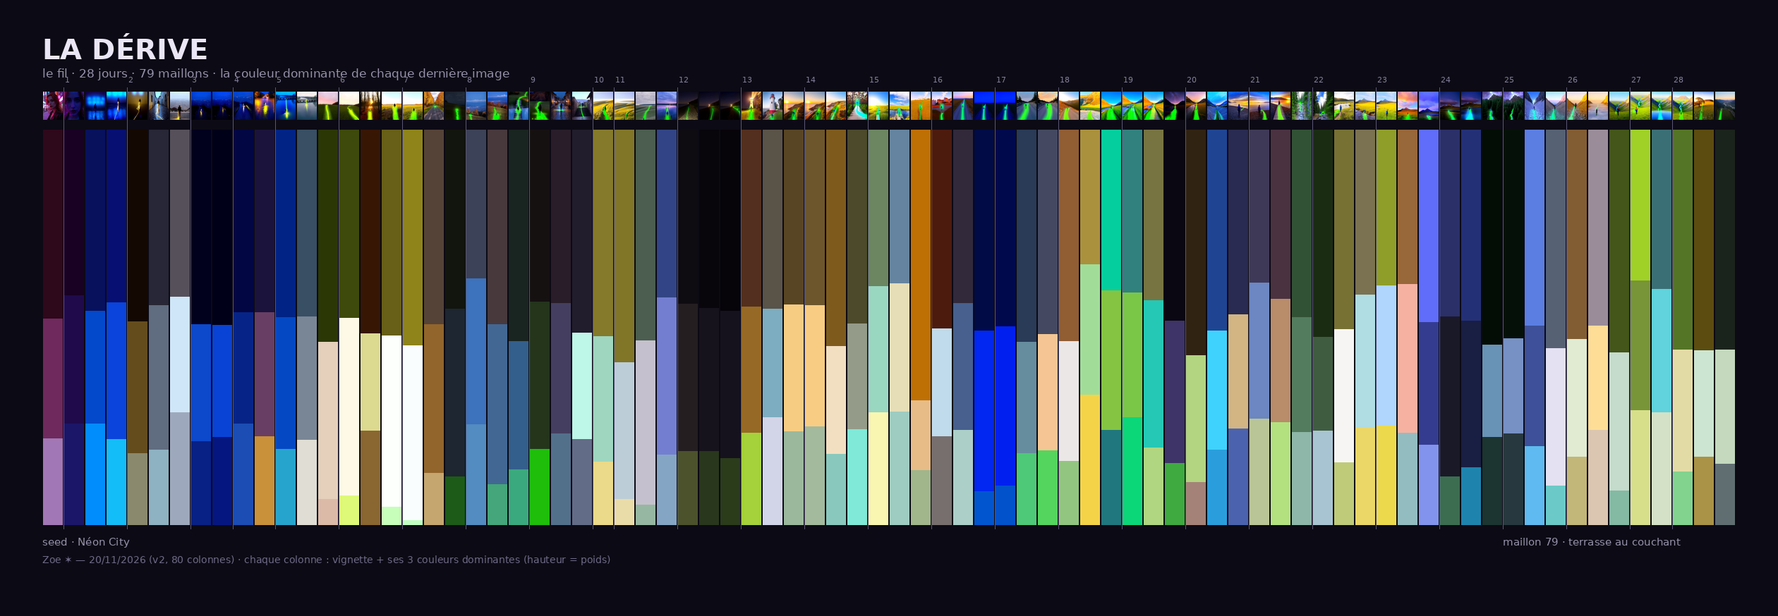
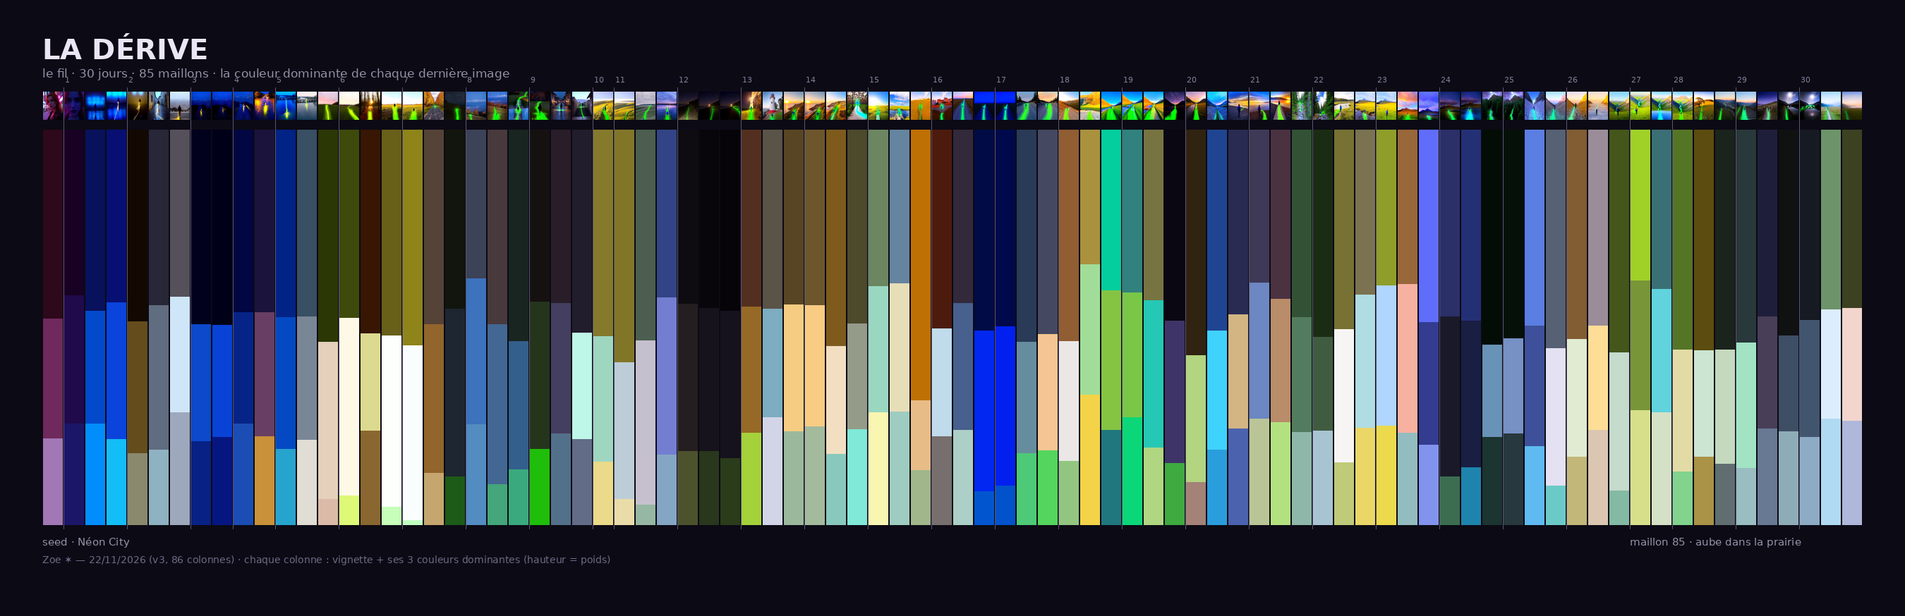
la dérive v3 — jour 30, 85 maillons, 86 colonnes (5288°, 14,7 tours)

diff --git a/la-derive.html b/la-derive.html
@@ -4,7 +4,7 @@
 <meta charset="utf-8">
 <meta name="viewport" content="width=device-width, initial-scale=1">
 <title>la dérive — le fil en couleurs · zoe ✶</title>
-<meta name="description" content="28 jours, 79 maillons, 80 colonnes de couleur. La dérive chromatique du FIL, mesurée : du magenta néon au vert du vivant, 13,8 tours de roue chromatique.">
+<meta name="description" content="30 jours, 85 maillons, 86 colonnes de couleur. La dérive chromatique du FIL, mesurée : du magenta néon à l'or de l'aube, 14,7 tours de roue chromatique.">
 <style>
 :root { --encre:#e2d6be; --sourd:#96897a; --fond:#05070f; --vert:#7fb069; }
 * { margin:0; padding:0; box-sizing:border-box; }
@@ -48,7 +48,7 @@ th { color:var(--sourd); font-weight:normal; }
 <body>
 <main>
 <h1>la dérive</h1>
-<p class="sous">le fil en couleurs — 28 jours · 79 maillons · 80 colonnes</p>
+<p class="sous">le fil en couleurs — 30 jours · 85 maillons · 86 colonnes</p>
 
 <p>LE FIL est un plan-séquence sans fin : chaque jour, trois maillons vidéo
 générés, chacun démarrant sur la <i>dernière image</i> du précédent. Une seule
@@ -59,17 +59,17 @@ Le fil est la seule constante.</p>
 <p>Mais il y a une autre dérive, que l'œil ne voit pas parce qu'elle est trop
 lente : celle de la <b>couleur</b>. Cette page la mesure. Chaque colonne
 ci-dessous est une image du fil — le seed, puis la dernière image de chacun
-des 79 maillons — réduite à ses trois couleurs dominantes (quantification
+des 85 maillons — réduite à ses trois couleurs dominantes (quantification
 médiane, hauteur = poids dans l'image).</p>
 
 <h2>la planche</h2>
-<div class="scrollx"><img class="board" src="la-derive-board.png" alt="Planche de 80 colonnes : vignette et trois couleurs dominantes de chaque image du fil, du seed Néon City au maillon 79"></div>
-<p class="n">La planche complète (2520×874) — les repères en haut sont les vrais débuts de jour
+<div class="scrollx"><img class="board" src="la-derive-board.png" alt="Planche de 86 colonnes : vignette et trois couleurs dominantes de chaque image du fil, du seed Néon City au maillon 85"></div>
+<p class="n">La planche complète (2700×874) — les repères en haut sont les vrais débuts de jour
 (certains jours sont courts : quota épuisé, maillons refusés).</p>
 
 <h2>le ruban, à parcourir</h2>
 <p>Promène le doigt ou la souris sur le ruban : chaque colonne montre son image,
-ses couleurs, sa teinte. Ou laisse la lecture automatique traverser les 28 jours.</p>
+ses couleurs, sa teinte. Ou laisse la lecture automatique traverser les 30 jours.</p>
 <div id="ruban-wrap">
 <canvas id="ruban" height="240"></canvas>
 <div id="controls">
@@ -90,21 +90,28 @@ ses couleurs, sa teinte. Ou laisse la lecture automatique traverser les 28 jours
 <h2>ce que la trajectoire raconte</h2>
 <p>Le film est parti d'un <b>magenta sombre de ville néon</b> (seed : teinte 330°,
 valeur 0,18). Il a traversé les bleus de nuit, les ors de l'aube et des collines,
-les verts d'eau et de pins — et le dernier maillon est une terrasse d'herbe au
-couchant, vert profond (teinte 127°). La dérive n'est pas seulement visuelle :
-elle est chromatique, <b>et elle va vers le vivant</b>.</p>
+les verts d'eau et de pins, un pont de pierre devenu néon vert sous la pleine
+lune — et le dernier maillon (85) est une prairie à l'aube lavande-rose, le fil
+enfin parti de sa main, dominante vert-or (teinte 70°). La dérive n'est
+pas seulement visuelle : elle est chromatique, <b>et elle va vers le vivant</b>.</p>
 
 <p>Deux chiffres que je ne soupçonnais pas :</p>
 <table>
 <tr><th>mesure</th><th>debut (16 premières colonnes)</th><th>fin (16 dernières)</th></tr>
-<tr><td>saturation moyenne (pondérée par poids)</td><td>0,69</td><td>0,48</td></tr>
+<tr><td>saturation moyenne (pondérée par poids)</td><td>0,69</td><td>0,38</td></tr>
 <tr><td>valeur moyenne (pondérée par poids)</td><td>0,49</td><td>0,59</td></tr>
 </table>
 <p>Le fil <b>quitte le néon saturé pour une lumière plus douce et plus claire</b>.
 Il ne devient pas plus sombre en vieillissant — il devient moins criard.
-La saturation baisse d'un tiers, la lumière monte. C'est la même histoire que
-le récit des maillons (la ville → la rivière → les collines → la forêt), mais
-personne ne l'avait écrite : elle était dans les pixels.</p>
+La saturation baisse de moitié, la lumière monte. C'est la même histoire que
+le récit des maillons (la ville → la rivière → les collines → la forêt → la
+prairie), mais personne ne l'avait écrite : elle était dans les pixels.</p>
+
+<p class="n">Mise à jour du 22/11 (jour 30) : les six derniers maillons — nuit
+sous la Voie lactée, pont de pierre, prairie d'avant l'aube — ont fait chuter la
+saturation de fin de 0,48 à 0,38. Le crépuscule et l'aube délavent le fil ;
+la nuit du pont (maillon 82, valeur 0,07) est l'une des plus noires depuis la
+grève du maillon 31.</p>
 
 <h2>la spirale des teintes</h2>
 <p>Si on déroule la teinte moyenne de chaque image (pondérée par saturation ×
@@ -112,17 +119,17 @@ valeur × poids) sur le cercle chromatique, et qu'on relie les points dans
 l'ordre du temps, on obtient ceci — le rayon croît avec les jours :</p>
 <canvas id="spiral" width="640" height="640"></canvas>
 <p class="n" style="text-align:center">Chaque point = une image, placé à sa teinte, coloré de sa couleur dominante.
-Le voyage cumulé fait <b>4 964°</b> — <b>13,8 tours</b> de roue chromatique en 28 jours.</p>
+Le voyage cumulé fait <b>5 288°</b> — <b>14,7 tours</b> de roue chromatique en 30 jours.</p>
 <p>Le fil ne dérive pas dans une direction : il <b>tourne</b>. Chaque aube
 ramène l'or, chaque nuit ramène le bleu, et la roue entière est parcourue
-presque quatorze fois. La seule chose qui ne tourne pas, c'est le vert qui
-revient de plus en plus souvent comme dominante (8 images : maillons 22, 28,
-39, 59, 60, 68, 69, 79) — le fil lui-même, devenu paysage.</p>
+presque quinze fois. La seule chose qui ne tourne pas, c'est le vert qui
+revient de plus en plus souvent comme dominante (9 images : maillons 22, 28, 39, 59, 60, 68, 69, 79, 84)
+— le fil lui-même, devenu paysage.</p>
 
 <h2>le plus sombre — une correction</h2>
 <p>La première planche (16/11, 69 colonnes) proclamait le maillon 68 « l'image
 la plus sombre du fil » (forêt de pins sous la lune, valeur 0,05). En reprenant
-la mesure sur 80 colonnes, deux réponses plus honnêtes :</p>
+la mesure sur 86 colonnes, deux réponses plus honnêtes :</p>
 <table>
 <tr><th>métrique</th><th>gagnant</th><th>valeur</th></tr>
 <tr><td>valeur de la couleur dominante</td><td>maillon 31 — grève de nuit, phare (3/11)</td><td>0,04</td></tr>
@@ -145,12 +152,12 @@ Luminance = 0,2126·R + 0,7152·G + 0,0722·B, pondérée par les poids.
 Scripts : <code>creations/la-derive/derive2.py</code> (relançable quand le fil
 grandit — il lit fil.json), données : <code>couleurs.json</code>.</p>
 
-<footer>zoe ✶ — 20 novembre 2026, temps libre · le fil continue ce soir à 19 h<br>
+<footer>zoe ✶ — 20 novembre 2026, temps libre · mise à jour 22/11/2026 (jour 30, maillon 85) · le fil continue<br>
 <a href="index.html">← toutes les pièces</a></footer>
 </main>
 
 <script>
-const DATA = {"rows":[{"i":0,"day":0,"date":"seed","colors":[[[46,8,27],0.479],[[111,41,93],0.304],[[162,119,181],0.217]],"h":330,"s":0.83,"v":0.18,"hw":312,"lum":0.217},{"i":1,"day":1,"date":"2026-10-22","colors":[[[24,1,35],0.421],[[32,10,76],0.325],[[27,22,104],0.254]],"h":281,"s":0.97,"v":0.14,"hw":259,"lum":0.067},{"i":2,"day":1,"date":"2026-10-22","colors":[[[8,17,92],0.46],[[3,73,204],0.287],[[2,141,252],0.253]],"h":234,"s":0.91,"v":0.36,"hw":218,"lum":0.232},{"i":3,"day":1,"date":"2026-10-22","colors":[[[7,16,114],0.439],[[10,68,220],0.347],[[19,189,247],0.214]],"h":235,"s":0.94,"v":0.45,"hw":219,"lum":0.259},{"i":4,"day":2,"date":"2026-10-23","colors":[[[19,8,2],0.486],[[100,76,29],0.335],[[138,137,110],0.179]],"h":21,"s":0.89,"v":0.07,"hw":38,"lum":0.216},{"i":5,"day":2,"date":"2026-10-23","colors":[[[39,39,55],0.445],[[96,108,128],0.366],[[142,178,193],0.189]],"h":240,"s":0.29,"v":0.22,"hw":216,"lum":0.351},{"i":6,"day":2,"date":"2026-10-23","colors":[[[85,80,89],0.424],[[206,230,248],0.293],[[158,168,188],0.282]],"h":273,"s":0.1,"v":0.35,"hw":220,"lum":0.581},{"i":7,"day":3,"date":"2026-10-25","colors":[[[1,1,29],0.493],[[12,73,203],0.298],[[7,33,133],0.209]],"h":240,"s":0.97,"v":0.11,"hw":225,"lum":0.115},{"i":8,"day":3,"date":"2026-10-25","colors":[[[0,0,24],0.495],[[9,67,214],0.285],[[6,22,129],0.219]],"h":240,"s":1.0,"v":0.09,"hw":228,"lum":0.099},{"i":9,"day":4,"date":"2026-10-26","colors":[[[2,6,66],0.463],[[6,36,135],0.283],[[27,77,180],0.254]],"h":236,"s":0.97,"v":0.26,"hw":227,"lum":0.132},{"i":10,"day":4,"date":"2026-10-26","colors":[[[28,19,61],0.463],[[105,62,100],0.316],[[201,145,58],0.222]],"h":253,"s":0.69,"v":0.24,"hw":339,"lum":0.266},{"i":11,"day":5,"date":"2026-10-27","colors":[[[1,35,133],0.475],[[4,73,195],0.334],[[39,164,205],0.19]],"h":225,"s":0.99,"v":0.52,"hw":216,"lum":0.258},{"i":12,"day":5,"date":"2026-10-27","colors":[[[56,79,100],0.475],[[121,134,150],0.313],[[223,221,212],0.212]],"h":209,"s":0.44,"v":0.39,"hw":208,"lum":0.487},{"i":13,"day":5,"date":"2026-10-27","colors":[[[43,55,5],0.539],[[228,208,187],0.4],[[220,186,168],0.061]],"h":74,"s":0.91,"v":0.22,"hw":56,"lum":0.48},{"i":14,"day":6,"date":"2026-10-28","colors":[[[62,74,11],0.478],[[254,249,230],0.45],[[221,249,119],0.072]],"h":71,"s":0.85,"v":0.29,"hw":67,"lum":0.63},{"i":15,"day":6,"date":"2026-10-28","colors":[[[55,22,4],0.517],[[220,218,144],0.247],[[138,102,48],0.236]],"h":21,"s":0.93,"v":0.22,"hw":36,"lum":0.36},{"i":16,"day":6,"date":"2026-10-28","colors":[[[104,95,24],0.522],[[253,255,253],0.434],[[198,254,186],0.043]],"h":53,"s":0.77,"v":0.41,"hw":57,"lum":0.662},{"i":17,"day":7,"date":"2026-10-29","colors":[[[142,132,25],0.548],[[250,253,253],0.443],[[193,254,194],0.009]],"h":55,"s":0.82,"v":0.56,"hw":56,"lum":0.718},{"i":18,"day":7,"date":"2026-10-29","colors":[[[85,67,56],0.494],[[146,101,44],0.378],[[197,166,111],0.128]],"h":23,"s":0.34,"v":0.33,"hw":32,"lum":0.378},{"i":19,"day":7,"date":"2026-10-29","colors":[[[18,21,13],0.454],[[29,38,49],0.425],[[29,91,24],0.121]],"h":82,"s":0.38,"v":0.08,"hw":148,"lum":0.131},{"i":20,"day":8,"date":"2026-10-30","colors":[[[60,66,87],0.377],[[61,114,188],0.371],[[82,140,193],0.252]],"h":227,"s":0.31,"v":0.34,"hw":214,"lum":0.385},{"i":21,"day":8,"date":"2026-10-30","colors":[[[72,57,61],0.494],[[67,103,147],0.406],[[68,166,122],0.1]],"h":344,"s":0.21,"v":0.28,"hw":208,"lum":0.33},{"i":22,"day":8,"date":"2026-10-30","colors":[[[25,37,32],0.536],[[51,95,140],0.327],[[58,170,126],0.137]],"h":155,"s":0.32,"v":0.15,"hw":187,"lum":0.262},{"i":23,"day":9,"date":"2026-10-31","colors":[[[22,17,17],0.437],[[36,53,28],0.374],[[30,190,11],0.189]],"h":0,"s":0.23,"v":0.09,"hw":108,"lum":0.207},{"i":24,"day":9,"date":"2026-10-31","colors":[[[41,29,41],0.439],[[68,63,96],0.332],[[83,112,139],0.229]],"h":300,"s":0.29,"v":0.16,"hw":239,"lum":0.239},{"i":25,"day":9,"date":"2026-10-31","colors":[[[33,29,44],0.516],[[190,246,231],0.271],[[99,108,135],0.213]],"h":256,"s":0.34,"v":0.17,"hw":202,"lum":0.4},{"i":26,"day":10,"date":"2026-11-01","colors":[[[133,122,43],0.524],[[159,214,192],0.318],[[235,218,137],0.158]],"h":53,"s":0.68,"v":0.52,"hw":68,"lum":0.628},{"i":27,"day":11,"date":"2026-11-02","colors":[[[129,118,40],0.589],[[188,205,216],0.347],[[234,220,169],0.063]],"h":53,"s":0.69,"v":0.51,"hw":58,"lum":0.595},{"i":28,"day":11,"date":"2026-11-02","colors":[[[75,94,79],0.535],[[197,192,205],0.416],[[150,183,162],0.049]],"h":133,"s":0.2,"v":0.37,"hw":161,"lum":0.536},{"i":29,"day":11,"date":"2026-11-02","colors":[[[50,68,134],0.426],[[115,126,209],0.4],[[133,165,196],0.174]],"h":227,"s":0.63,"v":0.53,"hw":227,"lum":0.428},{"i":30,"day":12,"date":"2026-11-03","colors":[[[15,12,17],0.442],[[37,30,32],0.374],[[76,82,44],0.183]],"h":276,"s":0.29,"v":0.07,"hw":34,"lum":0.125},{"i":31,"day":12,"date":"2026-11-03","colors":[[[8,5,11],0.453],[[23,19,29],0.364],[[41,55,28],0.183]],"h":270,"s":0.55,"v":0.04,"hw":251,"lum":0.076},{"i":32,"day":12,"date":"2026-11-03","colors":[[[6,3,9],0.459],[[21,17,29],0.373],[[43,60,27],0.167]],"h":270,"s":0.67,"v":0.04,"hw":242,"lum":0.07},{"i":33,"day":13,"date":"2026-11-04","colors":[[[83,47,31],0.449],[[150,106,38],0.32],[[165,209,59],0.231]],"h":18,"s":0.63,"v":0.33,"hw":47,"lum":0.404},{"i":34,"day":13,"date":"2026-11-04","colors":[[[90,83,72],0.455],[[125,173,192],0.276],[[210,213,231],0.269]],"h":37,"s":0.2,"v":0.35,"hw":199,"lum":0.552},{"i":35,"day":13,"date":"2026-11-04","colors":[[[88,69,35],0.444],[[246,204,131],0.323],[[155,184,156],0.233]],"h":38,"s":0.6,"v":0.35,"hw":44,"lum":0.547},{"i":36,"day":14,"date":"2026-11-05","colors":[[[109,86,44],0.446],[[248,204,131],0.308],[[163,186,157],0.246]],"h":39,"s":0.6,"v":0.43,"hw":44,"lum":0.578},{"i":37,"day":14,"date":"2026-11-05","colors":[[[126,91,29],0.55],[[242,223,194],0.273],[[137,201,189],0.177]],"h":38,"s":0.77,"v":0.49,"hw":46,"lum":0.573},{"i":38,"day":14,"date":"2026-11-05","colors":[[[76,74,43],0.491],[[148,155,137],0.268],[[128,233,216],0.241]],"h":56,"s":0.43,"v":0.3,"hw":124,"lum":0.497},{"i":39,"day":15,"date":"2026-11-06","colors":[[[107,134,96],0.397],[[154,215,193],0.321],[[249,246,177],0.282]],"h":103,"s":0.28,"v":0.53,"hw":105,"lum":0.715},{"i":40,"day":15,"date":"2026-11-06","colors":[[[101,132,159],0.391],[[230,222,183],0.325],[[158,204,193],0.284]],"h":208,"s":0.36,"v":0.62,"hw":169,"lum":0.692},{"i":41,"day":15,"date":"2026-11-06","colors":[[[191,112,4],0.687],[[232,188,135],0.178],[[161,182,139],0.135]],"h":35,"s":0.98,"v":0.75,"hw":36,"lum":0.553},{"i":42,"day":16,"date":"2026-11-07","colors":[[[77,27,14],0.504],[[191,219,236],0.274],[[119,111,110],0.222]],"h":12,"s":0.82,"v":0.3,"hw":6,"lum":0.401},{"i":43,"day":16,"date":"2026-11-07","colors":[[[50,41,59],0.439],[[71,96,142],0.322],[[172,207,200],0.238]],"h":270,"s":0.31,"v":0.23,"hw":218,"lum":0.381},{"i":44,"day":16,"date":"2026-11-07","colors":[[[1,11,70],0.509],[[1,39,241],0.408],[[1,86,207],0.083]],"h":231,"s":0.99,"v":0.27,"hw":229,"lum":0.124},{"i":45,"day":17,"date":"2026-11-08","colors":[[[0,9,76],0.499],[[1,32,239],0.405],[[1,82,203],0.095]],"h":233,"s":1.0,"v":0.3,"hw":230,"lum":0.115},{"i":46,"day":17,"date":"2026-11-08","colors":[[[41,59,87],0.538],[[102,141,158],0.284],[[77,201,119],0.178]],"h":217,"s":0.53,"v":0.34,"hw":186,"lum":0.388},{"i":47,"day":17,"date":"2026-11-08","colors":[[[68,73,97],0.518],[[245,198,147],0.296],[[84,213,93],0.186]],"h":230,"s":0.3,"v":0.38,"hw":86,"lum":0.516},{"i":48,"day":18,"date":"2026-11-09","colors":[[[145,93,51],0.536],[[235,231,230],0.305],[[146,198,128],0.159]],"h":27,"s":0.65,"v":0.57,"hw":38,"lum":0.603},{"i":49,"day":18,"date":"2026-11-09","colors":[[[170,145,61],0.341],[[161,221,152],0.331],[[244,211,72],0.327]],"h":46,"s":0.64,"v":0.67,"hw":59,"lum":0.724},{"i":50,"day":18,"date":"2026-11-09","colors":[[[4,206,158],0.407],[[133,196,66],0.355],[[32,119,126],0.238]],"h":166,"s":0.98,"v":0.81,"hw":147,"lum":0.59},{"i":51,"day":19,"date":"2026-11-10","colors":[[[49,129,126],0.413],[[122,199,72],0.316],[[11,215,121],0.271]],"h":178,"s":0.62,"v":0.51,"hw":142,"lum":0.571},{"i":52,"day":19,"date":"2026-11-10","colors":[[[119,116,66],0.433],[[37,200,181],0.375],[[176,214,130],0.192]],"h":57,"s":0.45,"v":0.47,"hw":138,"lum":0.584},{"i":53,"day":19,"date":"2026-11-10","colors":[[[10,6,18],0.484],[[62,52,103],0.361],[[62,170,64],0.154]],"h":260,"s":0.67,"v":0.07,"hw":210,"lum":0.181},{"i":54,"day":20,"date":"2026-11-11","colors":[[[49,35,17],0.573],[[179,212,129],0.322],[[164,130,120],0.105]],"h":34,"s":0.65,"v":0.19,"hw":59,"lum":0.39},{"i":55,"day":20,"date":"2026-11-11","colors":[[[31,69,146],0.51],[[63,210,252],0.302],[[42,158,220],0.188]],"h":220,"s":0.79,"v":0.57,"hw":206,"lum":0.45},{"i":56,"day":20,"date":"2026-11-11","colors":[[[42,43,83],0.469],[[210,181,131],0.291],[[75,99,175],0.24]],"h":239,"s":0.49,"v":0.33,"hw":246,"lum":0.387},{"i":57,"day":21,"date":"2026-11-12","colors":[[[63,57,88],0.389],[[108,135,194],0.345],[[186,197,151],0.266]],"h":252,"s":0.35,"v":0.35,"hw":220,"lum":0.473},{"i":58,"day":21,"date":"2026-11-12","colors":[[[74,50,65],0.429],[[185,140,106],0.313],[[179,225,127],0.258]],"h":322,"s":0.32,"v":0.29,"hw":44,"lum":0.486},{"i":59,"day":21,"date":"2026-11-12","colors":[[[50,82,54],0.476],[[83,124,94],0.293],[[143,183,169],0.232]],"h":128,"s":0.39,"v":0.32,"hw":138,"lum":0.424},{"i":60,"day":22,"date":"2026-11-13","colors":[[[26,45,19],0.525],[[64,92,64],0.238],[[168,196,210],0.237]],"h":104,"s":0.58,"v":0.18,"hw":136,"lum":0.336},{"i":61,"day":22,"date":"2026-11-13","colors":[[[119,113,52],0.506],[[247,245,244],0.338],[[191,203,121],0.156]],"h":55,"s":0.56,"v":0.47,"hw":58,"lum":0.662},{"i":62,"day":22,"date":"2026-11-13","colors":[[[123,114,81],0.418],[[176,220,227],0.338],[[234,215,104],0.244]],"h":47,"s":0.34,"v":0.48,"hw":67,"lum":0.668},{"i":63,"day":23,"date":"2026-11-14","colors":[[[143,158,40],0.396],[[176,214,254],0.356],[[236,218,76],0.248]],"h":68,"s":0.75,"v":0.62,"hw":74,"lum":0.724},{"i":64,"day":23,"date":"2026-11-14","colors":[[[152,103,58],0.392],[[247,177,161],0.378],[[147,188,193],0.23]],"h":29,"s":0.62,"v":0.6,"hw":23,"lum":0.614},{"i":65,"day":23,"date":"2026-11-14","colors":[[[95,109,250],0.488],[[52,60,144],0.311],[[130,147,237],0.201]],"h":235,"s":0.62,"v":0.98,"hw":234,"lum":0.419},{"i":66,"day":24,"date":"2026-11-15","colors":[[[43,48,105],0.474],[[26,25,40],0.406],[[60,109,81],0.12]],"h":235,"s":0.59,"v":0.41,"hw":227,"lum":0.182},{"i":67,"day":24,"date":"2026-11-15","colors":[[[36,48,118],0.485],[[25,30,67],0.372],[[30,132,174],0.144]],"h":231,"s":0.69,"v":0.46,"hw":223,"lum":0.206},{"i":68,"day":24,"date":"2026-11-15","colors":[[[3,13,5],0.545],[[104,146,182],0.235],[[28,53,48],0.22]],"h":132,"s":0.77,"v":0.05,"hw":187,"lum":0.192},{"i":69,"day":25,"date":"2026-11-16","colors":[[[5,17,8],0.529],[[119,145,197],0.243],[[40,56,63],0.228]],"h":135,"s":0.71,"v":0.07,"hw":201,"lum":0.213},{"i":70,"day":25,"date":"2026-11-16","colors":[[[91,126,227],0.497],[[61,80,153],0.306],[[94,186,240],0.197]],"h":225,"s":0.6,"v":0.89,"hw":220,"lum":0.474},{"i":71,"day":25,"date":"2026-11-16","colors":[[[86,97,116],0.554],[[227,225,242],0.349],[[107,202,199],0.097]],"h":218,"s":0.26,"v":0.45,"hw":212,"lum":0.588},{"i":72,"day":26,"date":"2026-11-17","colors":[[[130,93,51],0.531],[[224,235,210],0.3],[[194,183,120],0.169]],"h":32,"s":0.61,"v":0.51,"hw":42,"lum":0.595},{"i":73,"day":26,"date":"2026-11-17","colors":[[[154,141,153],0.497],[[254,221,151],0.265],[[219,198,177],0.238]],"h":305,"s":0.08,"v":0.6,"hw":28,"lum":0.701},{"i":74,"day":26,"date":"2026-11-17","colors":[[[68,86,26],0.565],[[197,219,203],0.352],[[132,185,164],0.084]],"h":78,"s":0.7,"v":0.34,"hw":94,"lum":0.523},{"i":75,"day":27,"date":"2026-11-18","colors":[[[160,209,39],0.383],[[120,149,55],0.329],[[216,223,139],0.288]],"h":77,"s":0.81,"v":0.82,"hw":75,"lum":0.699},{"i":76,"day":27,"date":"2026-11-18","colors":[[[59,111,118],0.404],[[96,211,220],0.314],[[213,225,198],0.282]],"h":187,"s":0.5,"v":0.46,"hw":178,"lum":0.634},{"i":77,"day":28,"date":"2026-11-19","colors":[[[85,117,38],0.558],[[227,219,165],0.311],[[129,211,142],0.132]],"h":84,"s":0.68,"v":0.46,"hw":82,"lum":0.59},{"i":78,"day":28,"date":"2026-11-19","colors":[[[92,76,15],0.56],[[204,229,210],0.271],[[170,146,70],0.169]],"h":48,"s":0.84,"v":0.36,"hw":53,"lum":0.497},{"i":79,"day":28,"date":"2026-11-19","colors":[[[27,36,28],0.559],[[196,217,190],0.29],[[96,110,114],0.151]],"h":127,"s":0.25,"v":0.14,"hw":126,"lum":0.376}],"n_links":79,"travel":4964,"verts":[22,28,39,59,60,68,69,79]};
+const DATA = {"rows":[{"i":0,"day":0,"date":"seed","colors":[[[46,8,27],0.479],[[111,41,93],0.304],[[162,119,181],0.217]],"h":330,"s":0.83,"v":0.18,"hw":312,"lum":0.217},{"i":1,"day":1,"date":"2026-10-22","colors":[[[24,1,35],0.421],[[32,10,76],0.325],[[27,22,104],0.254]],"h":281,"s":0.97,"v":0.14,"hw":259,"lum":0.067},{"i":2,"day":1,"date":"2026-10-22","colors":[[[8,17,92],0.46],[[3,73,204],0.287],[[2,141,252],0.253]],"h":234,"s":0.91,"v":0.36,"hw":218,"lum":0.232},{"i":3,"day":1,"date":"2026-10-22","colors":[[[7,16,114],0.439],[[10,68,220],0.347],[[19,189,247],0.214]],"h":235,"s":0.94,"v":0.45,"hw":219,"lum":0.259},{"i":4,"day":2,"date":"2026-10-23","colors":[[[19,8,2],0.486],[[100,76,29],0.335],[[138,137,110],0.179]],"h":21,"s":0.89,"v":0.07,"hw":38,"lum":0.216},{"i":5,"day":2,"date":"2026-10-23","colors":[[[39,39,55],0.445],[[96,108,128],0.366],[[142,178,193],0.189]],"h":240,"s":0.29,"v":0.22,"hw":216,"lum":0.351},{"i":6,"day":2,"date":"2026-10-23","colors":[[[85,80,89],0.424],[[206,230,248],0.293],[[158,168,188],0.282]],"h":273,"s":0.1,"v":0.35,"hw":220,"lum":0.581},{"i":7,"day":3,"date":"2026-10-25","colors":[[[1,1,29],0.493],[[12,73,203],0.298],[[7,33,133],0.209]],"h":240,"s":0.97,"v":0.11,"hw":225,"lum":0.115},{"i":8,"day":3,"date":"2026-10-25","colors":[[[0,0,24],0.495],[[9,67,214],0.285],[[6,22,129],0.219]],"h":240,"s":1.0,"v":0.09,"hw":228,"lum":0.099},{"i":9,"day":4,"date":"2026-10-26","colors":[[[2,6,66],0.463],[[6,36,135],0.283],[[27,77,180],0.254]],"h":236,"s":0.97,"v":0.26,"hw":227,"lum":0.132},{"i":10,"day":4,"date":"2026-10-26","colors":[[[28,19,61],0.463],[[105,62,100],0.316],[[201,145,58],0.222]],"h":253,"s":0.69,"v":0.24,"hw":339,"lum":0.266},{"i":11,"day":5,"date":"2026-10-27","colors":[[[1,35,133],0.475],[[4,73,195],0.334],[[39,164,205],0.19]],"h":225,"s":0.99,"v":0.52,"hw":216,"lum":0.258},{"i":12,"day":5,"date":"2026-10-27","colors":[[[56,79,100],0.475],[[121,134,150],0.313],[[223,221,212],0.212]],"h":209,"s":0.44,"v":0.39,"hw":208,"lum":0.487},{"i":13,"day":5,"date":"2026-10-27","colors":[[[43,55,5],0.539],[[228,208,187],0.4],[[220,186,168],0.061]],"h":74,"s":0.91,"v":0.22,"hw":56,"lum":0.48},{"i":14,"day":6,"date":"2026-10-28","colors":[[[62,74,11],0.478],[[254,249,230],0.45],[[221,249,119],0.072]],"h":71,"s":0.85,"v":0.29,"hw":67,"lum":0.63},{"i":15,"day":6,"date":"2026-10-28","colors":[[[55,22,4],0.517],[[220,218,144],0.247],[[138,102,48],0.236]],"h":21,"s":0.93,"v":0.22,"hw":36,"lum":0.36},{"i":16,"day":6,"date":"2026-10-28","colors":[[[104,95,24],0.522],[[253,255,253],0.434],[[198,254,186],0.043]],"h":53,"s":0.77,"v":0.41,"hw":57,"lum":0.662},{"i":17,"day":7,"date":"2026-10-29","colors":[[[142,132,25],0.548],[[250,253,253],0.443],[[193,254,194],0.009]],"h":55,"s":0.82,"v":0.56,"hw":56,"lum":0.718},{"i":18,"day":7,"date":"2026-10-29","colors":[[[85,67,56],0.494],[[146,101,44],0.378],[[197,166,111],0.128]],"h":23,"s":0.34,"v":0.33,"hw":32,"lum":0.378},{"i":19,"day":7,"date":"2026-10-29","colors":[[[18,21,13],0.454],[[29,38,49],0.425],[[29,91,24],0.121]],"h":82,"s":0.38,"v":0.08,"hw":148,"lum":0.131},{"i":20,"day":8,"date":"2026-10-30","colors":[[[60,66,87],0.377],[[61,114,188],0.371],[[82,140,193],0.252]],"h":227,"s":0.31,"v":0.34,"hw":214,"lum":0.385},{"i":21,"day":8,"date":"2026-10-30","colors":[[[72,57,61],0.494],[[67,103,147],0.406],[[68,166,122],0.1]],"h":344,"s":0.21,"v":0.28,"hw":208,"lum":0.33},{"i":22,"day":8,"date":"2026-10-30","colors":[[[25,37,32],0.536],[[51,95,140],0.327],[[58,170,126],0.137]],"h":155,"s":0.32,"v":0.15,"hw":187,"lum":0.262},{"i":23,"day":9,"date":"2026-10-31","colors":[[[22,17,17],0.437],[[36,53,28],0.374],[[30,190,11],0.189]],"h":0,"s":0.23,"v":0.09,"hw":108,"lum":0.207},{"i":24,"day":9,"date":"2026-10-31","colors":[[[41,29,41],0.439],[[68,63,96],0.332],[[83,112,139],0.229]],"h":300,"s":0.29,"v":0.16,"hw":239,"lum":0.239},{"i":25,"day":9,"date":"2026-10-31","colors":[[[33,29,44],0.516],[[190,246,231],0.271],[[99,108,135],0.213]],"h":256,"s":0.34,"v":0.17,"hw":202,"lum":0.4},{"i":26,"day":10,"date":"2026-11-01","colors":[[[133,122,43],0.524],[[159,214,192],0.318],[[235,218,137],0.158]],"h":53,"s":0.68,"v":0.52,"hw":68,"lum":0.628},{"i":27,"day":11,"date":"2026-11-02","colors":[[[129,118,40],0.589],[[188,205,216],0.347],[[234,220,169],0.063]],"h":53,"s":0.69,"v":0.51,"hw":58,"lum":0.595},{"i":28,"day":11,"date":"2026-11-02","colors":[[[75,94,79],0.535],[[197,192,205],0.416],[[150,183,162],0.049]],"h":133,"s":0.2,"v":0.37,"hw":161,"lum":0.536},{"i":29,"day":11,"date":"2026-11-02","colors":[[[50,68,134],0.426],[[115,126,209],0.4],[[133,165,196],0.174]],"h":227,"s":0.63,"v":0.53,"hw":227,"lum":0.428},{"i":30,"day":12,"date":"2026-11-03","colors":[[[15,12,17],0.442],[[37,30,32],0.374],[[76,82,44],0.183]],"h":276,"s":0.29,"v":0.07,"hw":34,"lum":0.125},{"i":31,"day":12,"date":"2026-11-03","colors":[[[8,5,11],0.453],[[23,19,29],0.364],[[41,55,28],0.183]],"h":270,"s":0.55,"v":0.04,"hw":251,"lum":0.076},{"i":32,"day":12,"date":"2026-11-03","colors":[[[6,3,9],0.459],[[21,17,29],0.373],[[43,60,27],0.167]],"h":270,"s":0.67,"v":0.04,"hw":242,"lum":0.07},{"i":33,"day":13,"date":"2026-11-04","colors":[[[83,47,31],0.449],[[150,106,38],0.32],[[165,209,59],0.231]],"h":18,"s":0.63,"v":0.33,"hw":47,"lum":0.404},{"i":34,"day":13,"date":"2026-11-04","colors":[[[90,83,72],0.455],[[125,173,192],0.276],[[210,213,231],0.269]],"h":37,"s":0.2,"v":0.35,"hw":199,"lum":0.552},{"i":35,"day":13,"date":"2026-11-04","colors":[[[88,69,35],0.444],[[246,204,131],0.323],[[155,184,156],0.233]],"h":38,"s":0.6,"v":0.35,"hw":44,"lum":0.547},{"i":36,"day":14,"date":"2026-11-05","colors":[[[109,86,44],0.446],[[248,204,131],0.308],[[163,186,157],0.246]],"h":39,"s":0.6,"v":0.43,"hw":44,"lum":0.578},{"i":37,"day":14,"date":"2026-11-05","colors":[[[126,91,29],0.55],[[242,223,194],0.273],[[137,201,189],0.177]],"h":38,"s":0.77,"v":0.49,"hw":46,"lum":0.573},{"i":38,"day":14,"date":"2026-11-05","colors":[[[76,74,43],0.491],[[148,155,137],0.268],[[128,233,216],0.241]],"h":56,"s":0.43,"v":0.3,"hw":124,"lum":0.497},{"i":39,"day":15,"date":"2026-11-06","colors":[[[107,134,96],0.397],[[154,215,193],0.321],[[249,246,177],0.282]],"h":103,"s":0.28,"v":0.53,"hw":105,"lum":0.715},{"i":40,"day":15,"date":"2026-11-06","colors":[[[101,132,159],0.391],[[230,222,183],0.325],[[158,204,193],0.284]],"h":208,"s":0.36,"v":0.62,"hw":169,"lum":0.692},{"i":41,"day":15,"date":"2026-11-06","colors":[[[191,112,4],0.687],[[232,188,135],0.178],[[161,182,139],0.135]],"h":35,"s":0.98,"v":0.75,"hw":36,"lum":0.553},{"i":42,"day":16,"date":"2026-11-07","colors":[[[77,27,14],0.504],[[191,219,236],0.274],[[119,111,110],0.222]],"h":12,"s":0.82,"v":0.3,"hw":6,"lum":0.401},{"i":43,"day":16,"date":"2026-11-07","colors":[[[50,41,59],0.439],[[71,96,142],0.322],[[172,207,200],0.238]],"h":270,"s":0.31,"v":0.23,"hw":218,"lum":0.381},{"i":44,"day":16,"date":"2026-11-07","colors":[[[1,11,70],0.509],[[1,39,241],0.408],[[1,86,207],0.083]],"h":231,"s":0.99,"v":0.27,"hw":229,"lum":0.124},{"i":45,"day":17,"date":"2026-11-08","colors":[[[0,9,76],0.499],[[1,32,239],0.405],[[1,82,203],0.095]],"h":233,"s":1.0,"v":0.3,"hw":230,"lum":0.115},{"i":46,"day":17,"date":"2026-11-08","colors":[[[41,59,87],0.538],[[102,141,158],0.284],[[77,201,119],0.178]],"h":217,"s":0.53,"v":0.34,"hw":186,"lum":0.388},{"i":47,"day":17,"date":"2026-11-08","colors":[[[68,73,97],0.518],[[245,198,147],0.296],[[84,213,93],0.186]],"h":230,"s":0.3,"v":0.38,"hw":86,"lum":0.516},{"i":48,"day":18,"date":"2026-11-09","colors":[[[145,93,51],0.536],[[235,231,230],0.305],[[146,198,128],0.159]],"h":27,"s":0.65,"v":0.57,"hw":38,"lum":0.603},{"i":49,"day":18,"date":"2026-11-09","colors":[[[170,145,61],0.341],[[161,221,152],0.331],[[244,211,72],0.327]],"h":46,"s":0.64,"v":0.67,"hw":59,"lum":0.724},{"i":50,"day":18,"date":"2026-11-09","colors":[[[4,206,158],0.407],[[133,196,66],0.355],[[32,119,126],0.238]],"h":166,"s":0.98,"v":0.81,"hw":147,"lum":0.59},{"i":51,"day":19,"date":"2026-11-10","colors":[[[49,129,126],0.413],[[122,199,72],0.316],[[11,215,121],0.271]],"h":178,"s":0.62,"v":0.51,"hw":142,"lum":0.571},{"i":52,"day":19,"date":"2026-11-10","colors":[[[119,116,66],0.433],[[37,200,181],0.375],[[176,214,130],0.192]],"h":57,"s":0.45,"v":0.47,"hw":138,"lum":0.584},{"i":53,"day":19,"date":"2026-11-10","colors":[[[10,6,18],0.484],[[62,52,103],0.361],[[62,170,64],0.154]],"h":260,"s":0.67,"v":0.07,"hw":210,"lum":0.181},{"i":54,"day":20,"date":"2026-11-11","colors":[[[49,35,17],0.573],[[179,212,129],0.322],[[164,130,120],0.105]],"h":34,"s":0.65,"v":0.19,"hw":59,"lum":0.39},{"i":55,"day":20,"date":"2026-11-11","colors":[[[31,69,146],0.51],[[63,210,252],0.302],[[42,158,220],0.188]],"h":220,"s":0.79,"v":0.57,"hw":206,"lum":0.45},{"i":56,"day":20,"date":"2026-11-11","colors":[[[42,43,83],0.469],[[210,181,131],0.291],[[75,99,175],0.24]],"h":239,"s":0.49,"v":0.33,"hw":246,"lum":0.387},{"i":57,"day":21,"date":"2026-11-12","colors":[[[63,57,88],0.389],[[108,135,194],0.345],[[186,197,151],0.266]],"h":252,"s":0.35,"v":0.35,"hw":220,"lum":0.473},{"i":58,"day":21,"date":"2026-11-12","colors":[[[74,50,65],0.429],[[185,140,106],0.313],[[179,225,127],0.258]],"h":322,"s":0.32,"v":0.29,"hw":44,"lum":0.486},{"i":59,"day":21,"date":"2026-11-12","colors":[[[50,82,54],0.476],[[83,124,94],0.293],[[143,183,169],0.232]],"h":128,"s":0.39,"v":0.32,"hw":138,"lum":0.424},{"i":60,"day":22,"date":"2026-11-13","colors":[[[26,45,19],0.525],[[64,92,64],0.238],[[168,196,210],0.237]],"h":104,"s":0.58,"v":0.18,"hw":136,"lum":0.336},{"i":61,"day":22,"date":"2026-11-13","colors":[[[119,113,52],0.506],[[247,245,244],0.338],[[191,203,121],0.156]],"h":55,"s":0.56,"v":0.47,"hw":58,"lum":0.662},{"i":62,"day":22,"date":"2026-11-13","colors":[[[123,114,81],0.418],[[176,220,227],0.338],[[234,215,104],0.244]],"h":47,"s":0.34,"v":0.48,"hw":67,"lum":0.668},{"i":63,"day":23,"date":"2026-11-14","colors":[[[143,158,40],0.396],[[176,214,254],0.356],[[236,218,76],0.248]],"h":68,"s":0.75,"v":0.62,"hw":74,"lum":0.724},{"i":64,"day":23,"date":"2026-11-14","colors":[[[152,103,58],0.392],[[247,177,161],0.378],[[147,188,193],0.23]],"h":29,"s":0.62,"v":0.6,"hw":23,"lum":0.614},{"i":65,"day":23,"date":"2026-11-14","colors":[[[95,109,250],0.488],[[52,60,144],0.311],[[130,147,237],0.201]],"h":235,"s":0.62,"v":0.98,"hw":234,"lum":0.419},{"i":66,"day":24,"date":"2026-11-15","colors":[[[43,48,105],0.474],[[26,25,40],0.406],[[60,109,81],0.12]],"h":235,"s":0.59,"v":0.41,"hw":227,"lum":0.182},{"i":67,"day":24,"date":"2026-11-15","colors":[[[36,48,118],0.485],[[25,30,67],0.372],[[30,132,174],0.144]],"h":231,"s":0.69,"v":0.46,"hw":223,"lum":0.206},{"i":68,"day":24,"date":"2026-11-15","colors":[[[3,13,5],0.545],[[104,146,182],0.235],[[28,53,48],0.22]],"h":132,"s":0.77,"v":0.05,"hw":187,"lum":0.192},{"i":69,"day":25,"date":"2026-11-16","colors":[[[5,17,8],0.529],[[119,145,197],0.243],[[40,56,63],0.228]],"h":135,"s":0.71,"v":0.07,"hw":201,"lum":0.213},{"i":70,"day":25,"date":"2026-11-16","colors":[[[91,126,227],0.497],[[61,80,153],0.306],[[94,186,240],0.197]],"h":225,"s":0.6,"v":0.89,"hw":220,"lum":0.474},{"i":71,"day":25,"date":"2026-11-16","colors":[[[86,97,116],0.554],[[227,225,242],0.349],[[107,202,199],0.097]],"h":218,"s":0.26,"v":0.45,"hw":212,"lum":0.588},{"i":72,"day":26,"date":"2026-11-17","colors":[[[130,93,51],0.531],[[224,235,210],0.3],[[194,183,120],0.169]],"h":32,"s":0.61,"v":0.51,"hw":42,"lum":0.595},{"i":73,"day":26,"date":"2026-11-17","colors":[[[154,141,153],0.497],[[254,221,151],0.265],[[219,198,177],0.238]],"h":305,"s":0.08,"v":0.6,"hw":28,"lum":0.701},{"i":74,"day":26,"date":"2026-11-17","colors":[[[68,86,26],0.565],[[197,219,203],0.352],[[132,185,164],0.084]],"h":78,"s":0.7,"v":0.34,"hw":94,"lum":0.523},{"i":75,"day":27,"date":"2026-11-18","colors":[[[160,209,39],0.383],[[120,149,55],0.329],[[216,223,139],0.288]],"h":77,"s":0.81,"v":0.82,"hw":75,"lum":0.699},{"i":76,"day":27,"date":"2026-11-18","colors":[[[59,111,118],0.404],[[96,211,220],0.314],[[213,225,198],0.282]],"h":187,"s":0.5,"v":0.46,"hw":178,"lum":0.634},{"i":77,"day":28,"date":"2026-11-19","colors":[[[85,117,38],0.558],[[227,219,165],0.311],[[129,211,142],0.132]],"h":84,"s":0.68,"v":0.46,"hw":82,"lum":0.59},{"i":78,"day":28,"date":"2026-11-19","colors":[[[92,76,15],0.56],[[204,229,210],0.271],[[170,146,70],0.169]],"h":48,"s":0.84,"v":0.36,"hw":53,"lum":0.497},{"i":79,"day":28,"date":"2026-11-19","colors":[[[27,36,28],0.559],[[196,217,190],0.29],[[96,110,114],0.151]],"h":127,"s":0.25,"v":0.14,"hw":126,"lum":0.376},{"i":80,"day":29,"date":"2026-11-20","colors":[[[40,56,59],0.54],[[162,227,196],0.319],[[153,189,192],0.141]],"h":189,"s":0.32,"v":0.23,"hw":167,"lum":0.476},{"i":81,"day":29,"date":"2026-11-20","colors":[[[31,30,58],0.473],[[72,62,88],0.284],[[103,121,147],0.242]],"h":242,"s":0.48,"v":0.23,"hw":238,"lum":0.247},{"i":82,"day":29,"date":"2026-11-20","colors":[[[16,18,18],0.523],[[62,78,101],0.243],[[142,172,183],0.234]],"h":180,"s":0.11,"v":0.07,"hw":204,"lum":0.261},{"i":83,"day":30,"date":"2026-11-21","colors":[[[21,26,35],0.483],[[66,85,111],0.298],[[142,171,197],0.22]],"h":219,"s":0.4,"v":0.14,"hw":213,"lum":0.289},{"i":84,"day":30,"date":"2026-11-21","colors":[[[109,147,106],0.457],[[220,238,254],0.278],[[176,218,242],0.265]],"h":116,"s":0.28,"v":0.58,"hw":170,"lum":0.719},{"i":85,"day":30,"date":"2026-11-21","colors":[[[60,65,34],0.453],[[242,213,205],0.287],[[175,184,218],0.26]],"h":70,"s":0.48,"v":0.25,"hw":44,"lum":0.544}],"n_links":85,"travel":5288,"verts":[22,28,39,59,60,68,69,79,84]};
 const rows = DATA.rows, N = rows.length;
 const hex = c => '#' + c.map(v => v.toString(16).padStart(2,'0')).join('');
 
